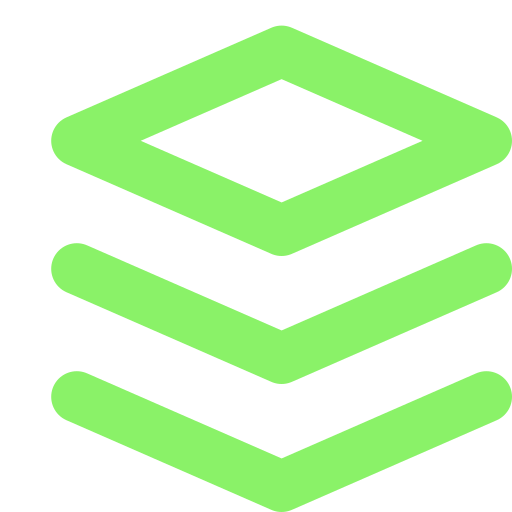
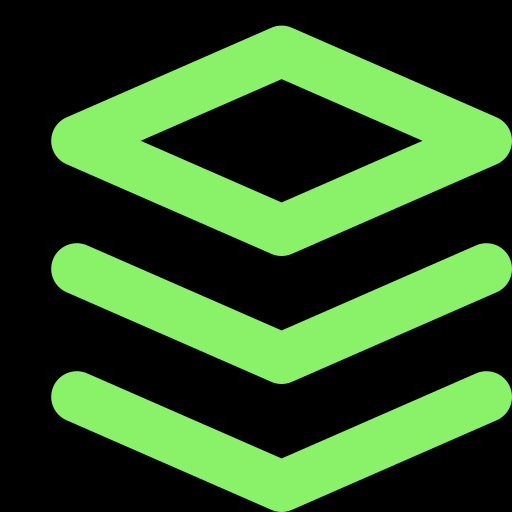
bug fixes
added time bug - midnight study
added custom category

diff --git a/app.js b/app.js
@@ -21,6 +21,139 @@ const CAT_LUCIDE = {
   reading:'book-marked', lecture:'graduation-cap', project:'monitor'
 };
 const CAT_EMOJI = { study:'📚', review:'🔁', practice:'✏️', reading:'📖', lecture:'🎓', project:'💻' };
+
+// Custom categories (user-defined, stored in localStorage per user)
+const BUILT_IN_CATS = ['study','review','practice','reading','lecture','project'];
+let customCategories = []; // [{id, name, color, icon}]
+
+function loadCustomCategories() {
+  if (!currentUser) return;
+  try {
+    const stored = localStorage.getItem(`logthat_custom_cats_${currentUser.id}`);
+    customCategories = stored ? JSON.parse(stored) : [];
+  } catch { customCategories = []; }
+}
+function saveCustomCategories() {
+  if (!currentUser) return;
+  localStorage.setItem(`logthat_custom_cats_${currentUser.id}`, JSON.stringify(customCategories));
+}
+
+// Get color for any category (built-in or custom)
+function getCatColor(cat) {
+  if (CAT_COLORS[cat]) return CAT_COLORS[cat];
+  const custom = customCategories.find(c => c.name === cat);
+  return custom ? custom.color : '#888888';
+}
+
+// Get lucide icon for any category
+function getCatIcon(cat) {
+  if (CAT_LUCIDE[cat]) return CAT_LUCIDE[cat];
+  const custom = customCategories.find(c => c.name === cat);
+  return custom ? (custom.icon || 'tag') : 'tag';
+}
+
+// Build <option> elements for all categories (built-in + custom)
+function buildCatOptions(selectedVal = '', includeNone = false) {
+  const builtIn = [
+    {v:'study',   l:'📚 Study'},
+    {v:'review',  l:'🔁 Review'},
+    {v:'practice',l:'✏️ Practice'},
+    {v:'reading', l:'📖 Reading'},
+    {v:'lecture', l:'🎓 Lecture'},
+    {v:'project', l:'💻 Project'},
+  ];
+  let html = includeNone ? '<option value="">None</option>' : '';
+  html += builtIn.map(o => `<option value="${o.v}"${selectedVal===o.v?' selected':''}>${o.l}</option>`).join('');
+  if (customCategories.length) {
+    html += `<optgroup label="Custom">`;
+    html += customCategories.map(c => `<option value="${c.name}"${selectedVal===c.name?' selected':''}>${c.name}</option>`).join('');
+    html += `</optgroup>`;
+  }
+  html += `<option value="__custom__">＋ Add custom category…</option>`;
+  return html;
+}
+
+// Populate all category selects in the app
+function updateCategoryDropdowns(selectedVals = {}) {
+  const selects = [
+    {id:'l-cat',       none:false, key:'l-cat'},
+    {id:'live-cat',    none:false, key:'live-cat'},
+    {id:'t-cat',       none:false, key:'t-cat'},
+    {id:'e-cat',       none:false, key:'e-cat'},
+    {id:'task-cat-input', none:true, key:'task-cat-input'},
+    {id:'et-cat',      none:true,  key:'et-cat'},
+    {id:'f-cat-full',  none:true,  key:'f-cat-full'},
+  ];
+  selects.forEach(({id, none, key}) => {
+    const el = document.getElementById(id);
+    if (!el) return;
+    const prev = selectedVals[key] !== undefined ? selectedVals[key] : el.value;
+    el.innerHTML = none
+      ? '<option value="">All categories</option>' + buildCatOptions(prev, false)
+      : buildCatOptions(prev, false);
+    // reattach change handler for "Add custom"
+    el.onchange = function() {
+      if (this.value === '__custom__') {
+        this.value = prev || '';
+        showAddCustomCategoryModal(id);
+      }
+    };
+  });
+}
+
+// Show a small prompt to add a custom category
+function showAddCustomCategoryModal(returnSelectId) {
+  openModal('modal-custom-cat');
+  document.getElementById('custom-cat-return-select').value = returnSelectId;
+  document.getElementById('custom-cat-name').value = '';
+  document.getElementById('custom-cat-color').value = '#6ab84f';
+  document.getElementById('custom-cat-icon').value = 'tag';
+}
+
+function addCustomCategory() {
+  const name = document.getElementById('custom-cat-name').value.trim();
+  const color = document.getElementById('custom-cat-color').value;
+  const icon = document.getElementById('custom-cat-icon').value.trim() || 'tag';
+  const returnId = document.getElementById('custom-cat-return-select').value;
+  if (!name) { toast('Enter a category name', true); return; }
+  if (BUILT_IN_CATS.includes(name.toLowerCase())) { toast('That\'s a built-in category', true); return; }
+  if (customCategories.find(c => c.name === name)) { toast('Category already exists', true); return; }
+  customCategories.push({ id: Date.now().toString(), name, color, icon });
+  saveCustomCategories();
+  updateCategoryDropdowns();
+  // Select the new category in the originating select
+  const el = document.getElementById(returnId);
+  if (el) el.value = name;
+  closeModal('modal-custom-cat');
+  toast(`"${name}" category added ✓`);
+}
+
+function deleteCustomCategory(name) {
+  customCategories = customCategories.filter(c => c.name !== name);
+  saveCustomCategories();
+  renderCustomCategoryChips();
+  updateCategoryDropdowns();
+}
+
+function renderCustomCategoryChips() {
+  const el = document.getElementById('custom-cat-chips');
+  if (!el) return;
+  if (!customCategories.length) {
+    el.innerHTML = '<span style="color:var(--text3);font-size:0.82rem">No custom categories yet.</span>';
+    return;
+  }
+  el.innerHTML = customCategories.map(c => `
+    <div class="chip" style="border-color:${c.color}20">
+      <span style="width:8px;height:8px;border-radius:50%;background:${c.color};display:inline-block;margin-right:4px;flex-shrink:0"></span>
+      ${c.name}
+      <button class="chip-del" onclick="deleteCustomCategory('${c.name.replace(/'/g,"\'")}')">✕</button>
+    </div>`).join('');
+}
+
+function showCustomCategoryManager() {
+  renderCustomCategoryChips();
+  openModal('modal-manage-custom-cats');
+}
 const DAY_NAMES   = ['Sun','Mon','Tue','Wed','Thu','Fri','Sat'];
 const MONTH_NAMES = ['January','February','March','April','May','June','July','August','September','October','November','December'];
 
@@ -137,6 +270,8 @@ async function initApp(user) {
   document.getElementById('auth-screen').style.display='none';
   document.getElementById('app').classList.remove('hidden');
   await loadProfile();
+  loadCustomCategories();
+  updateCategoryDropdowns();
   await loadSubjects();
   await loadTaskSubjects();
   await loadSessions();
@@ -367,8 +502,10 @@ async function logSession(overrides={}){
   if(!date){toast('Pick a date',true);return false;}
   if(!subj){toast('Select a subject',true);return false;}
   if(!start||!end){toast('Enter start and end times',true);return false;}
-  const dur=t2m(end)-t2m(start);
-  if(dur<=0){toast('End must be after start',true);return false;}
+  let dur=t2m(end)-t2m(start);
+  // Handle overnight sessions (e.g. 10:00 PM → 12:30 AM crosses midnight)
+  if(dur<=0) dur+=24*60;
+  if(dur<=0||dur>24*60){toast('Session duration must be between 1 min and 24 hours',true);return false;}
   const {data,error}=await sb.from('sessions').insert({user_id:currentUser.id,date,subject:subj,start_time:start,end_time:end,duration:dur,category:cat,notes}).select().single();
   if(error){toast('Error: '+error.message,true);return false;}
   allSessions.unshift(data);
@@ -409,8 +546,10 @@ async function saveEdit(){
   const end=document.getElementById('e-end').value;
   const cat=document.getElementById('e-cat').value;
   const notes=document.getElementById('e-notes').value.trim();
-  const dur=t2m(end)-t2m(start);
-  if(dur<=0){toast('End must be after start',true);return;}
+  let dur=t2m(end)-t2m(start);
+  // Handle overnight sessions
+  if(dur<=0) dur+=24*60;
+  if(dur<=0||dur>24*60){toast('Session duration must be between 1 min and 24 hours',true);return;}
   const {error}=await sb.from('sessions').update({date,subject:subj,start_time:start,end_time:end,category:cat,notes,duration:dur}).eq('id',editingId);
   if(error){toast('Error: '+error.message,true);return;}
   const idx=allSessions.findIndex(s=>s.id===editingId);
@@ -420,12 +559,13 @@ async function saveEdit(){
 
 /* ── Session HTML ────────────────────────────────────── */
 function sessionHTML(s, showDelete=true){
-  const catIcon = CAT_LUCIDE[s.category]||'book-open';
+  const catIcon = getCatIcon(s.category);
+  const catColor = getCatColor(s.category);
   return `<div class="si">
-    <div class="s-dot" style="background:${CAT_COLORS[s.category]}"></div>
+    <div class="s-dot" style="background:${catColor}"></div>
     <div class="s-body">
       <div class="s-sub">
-        <i data-lucide="${catIcon}" style="width:13px;height:13px;vertical-align:-1px;margin-right:4px;color:${CAT_COLORS[s.category]}"></i>
+        <i data-lucide="${catIcon}" style="width:13px;height:13px;vertical-align:-1px;margin-right:4px;color:${catColor}"></i>
         ${s.subject}
       </div>
       <div class="s-meta">${s.date} · ${fmtTime(s.start_time)}–${fmtTime(s.end_time)} · ${s.category}</div>
@@ -497,6 +637,13 @@ function updateSidebar(){
 
 /* ── Sessions tab ────────────────────────────────────── */
 function renderSessions(){
+  // Refresh category filter options to include custom categories
+  const fCatEl=document.getElementById('f-cat');
+  if(fCatEl){
+    const prev=fCatEl.value;
+    fCatEl.innerHTML='<option value="">All categories</option>'+buildCatOptions('',false).replace('<option value="__custom__">＋ Add custom category…</option>','');
+    fCatEl.value=prev;
+  }
   const fc=document.getElementById('f-cat').value;
   const fs=document.getElementById('f-subj').value;
   const fq=document.getElementById('f-search').value.toLowerCase();
@@ -554,9 +701,9 @@ function renderWeekly(){
   document.getElementById('wk-cats').innerHTML=Object.keys(cm).length
     ?Object.entries(cm).sort((a,b)=>b[1]-a[1]).map(([c,m])=>`
       <div class="cat-row"><div class="cat-top">
-        <span class="cat-n"><i data-lucide="${CAT_LUCIDE[c]||'book-open'}" style="width:13px;height:13px;vertical-align:-1px;margin-right:4px;color:${CAT_COLORS[c]}"></i>${c}</span>
+        <span class="cat-n"><i data-lucide="${getCatIcon(c)}" style="width:13px;height:13px;vertical-align:-1px;margin-right:4px;color:${getCatColor(c)}"></i>${c}</span>
         <span class="cat-v">${fmtD(m)}</span></div>
-        <div class="cat-bw"><div class="cat-bf" style="width:${Math.round(m/maxC*100)}%;background:${CAT_COLORS[c]}"></div></div></div>`).join('')
+        <div class="cat-bw"><div class="cat-bf" style="width:${Math.round(m/maxC*100)}%;background:${getCatColor(c)}"></div></div></div>`).join('')
     :'<div class="empty">No data.</div>';
   refreshIcons();
 }
@@ -772,7 +919,8 @@ function renderTasks(){
       const startStr=t.start_datetime?fmtDateTime(t.start_datetime):'';
       const endStr=t.end_datetime?fmtDateTime(t.end_datetime):'';
       const isOverdue=t.end_datetime&&!t.done&&new Date(t.end_datetime)<new Date();
-      const catIcon=t.category?CAT_LUCIDE[t.category]||'book-open':'';
+      const catIcon=t.category?getCatIcon(t.category):'';
+      const catColor=t.category?getCatColor(t.category):'inherit';
       html+=`<div class="task-item ${t.done?'done':''}" data-task-id="${t.id}">
         <div class="task-check ${t.done?'checked':''}" onclick="toggleTask('${t.id}')"></div>
         <div class="task-body">
@@ -780,7 +928,7 @@ function renderTasks(){
           <div class="task-meta">
             <span class="task-badge ${t.type}">${typeLabels[t.type]}</span>
             <span class="task-badge ${t.priority}">${t.priority}</span>
-            ${t.category?`<span class="task-badge cat"><i data-lucide="${catIcon}" style="width:11px;height:11px;vertical-align:-1px;margin-right:3px;color:${CAT_COLORS[t.category]||'inherit'}"></i>${t.category}</span>`:''}
+            ${t.category?`<span class="task-badge cat"><i data-lucide="${catIcon}" style="width:11px;height:11px;vertical-align:-1px;margin-right:3px;color:${catColor}"></i>${t.category}</span>`:''}
             ${t.subject?`<span class="task-subj-badge">${t.subject}</span>`:''}
           </div>
           ${(startStr||endStr)?`<div class="task-time-range ${isOverdue?'overdue':''}">
@@ -989,7 +1137,12 @@ function dismissTimerSave(){
 /* ── Duration preview ────────────────────────────────── */
 function updateDurPreview(){
   const s=document.getElementById('l-start').value,e=document.getElementById('l-end').value,el=document.getElementById('dur-p');
-  if(s&&e){const d=t2m(e)-t2m(s);el.textContent=d>0?`Duration: ${fmtD(d)}`:'End must be after start';el.className='dur-preview'+(d>0?' has':'');}
+  if(s&&e){
+    let d=t2m(e)-t2m(s);
+    if(d<=0) d+=24*60; // overnight crossover
+    el.textContent=d>0?`Duration: ${fmtD(d)} ${t2m(e)<t2m(s)?'(overnight)':''}`.trim():'Invalid times';
+    el.className='dur-preview'+(d>0?' has':'');
+  }
   else{el.textContent='Enter start and end times to preview duration';el.className='dur-preview';}
 }
 

diff --git a/index.html b/index.html
@@ -139,7 +139,8 @@
         <div class="gr3">
           <div class="field"><label>Start</label><input type="time" id="l-start"/></div>
           <div class="field"><label>End</label><input type="time" id="l-end"/></div>
-          <div class="field"><label>Category</label>
+          <div class="field">
+            <label>Category <button class="link-btn" onclick="showCustomCategoryManager()">+ Custom</button></label>
             <select id="l-cat">
               <option value="study">📚 Study</option>
               <option value="review">🔁 Review</option>
@@ -577,5 +578,59 @@
 <script src="supabase-config.js"></script>
 <script src="app.js"></script>
 <script>document.addEventListener('DOMContentLoaded', () => { if(window.lucide) lucide.createIcons(); });</script>
+
+<!-- Add Custom Category Modal -->
+<div class="modal-overlay" id="modal-custom-cat" onclick="closeModal('modal-custom-cat')">
+  <div class="modal" onclick="event.stopPropagation()" style="max-width:360px">
+    <div class="modal-header">
+      <h3><i data-lucide="tag" style="width:16px;height:16px;vertical-align:-2px;margin-right:6px"></i>Add Custom Category</h3>
+      <button onclick="closeModal('modal-custom-cat')"><i data-lucide="x" style="width:18px;height:18px"></i></button>
+    </div>
+    <input type="hidden" id="custom-cat-return-select"/>
+    <div class="field">
+      <label>Category Name</label>
+      <input type="text" id="custom-cat-name" placeholder="e.g. Exam Prep, Lab Work…" maxlength="30"/>
+    </div>
+    <div class="gr2">
+      <div class="field">
+        <label>Color</label>
+        <div class="color-picker-wrap">
+          <input type="color" id="custom-cat-color" value="#6ab84f"/>
+          <div class="color-presets">
+            <button class="color-dot" style="background:#378ADD" onclick="document.getElementById('custom-cat-color').value='#378ADD'"></button>
+            <button class="color-dot" style="background:#D4537E" onclick="document.getElementById('custom-cat-color').value='#D4537E'"></button>
+            <button class="color-dot" style="background:#EF9F27" onclick="document.getElementById('custom-cat-color').value='#EF9F27'"></button>
+            <button class="color-dot" style="background:#7F77DD" onclick="document.getElementById('custom-cat-color').value='#7F77DD'"></button>
+            <button class="color-dot" style="background:#6ab84f" onclick="document.getElementById('custom-cat-color').value='#6ab84f'"></button>
+            <button class="color-dot" style="background:#D85A30" onclick="document.getElementById('custom-cat-color').value='#D85A30'"></button>
+          </div>
+        </div>
+      </div>
+      <div class="field">
+        <label>Icon <span class="opt">(Lucide name)</span></label>
+        <input type="text" id="custom-cat-icon" placeholder="e.g. flask, code, music" value="tag"/>
+      </div>
+    </div>
+    <button class="btn-primary full" style="margin-top:4px" onclick="addCustomCategory()">
+      <i data-lucide="plus" style="width:14px;height:14px"></i> Add Category
+    </button>
+  </div>
+</div>
+
+<!-- Manage Custom Categories Modal -->
+<div class="modal-overlay" id="modal-manage-custom-cats" onclick="closeModal('modal-manage-custom-cats')">
+  <div class="modal" onclick="event.stopPropagation()">
+    <div class="modal-header">
+      <h3><i data-lucide="settings-2" style="width:16px;height:16px;vertical-align:-2px;margin-right:6px"></i>Custom Categories</h3>
+      <button onclick="closeModal('modal-manage-custom-cats')"><i data-lucide="x" style="width:18px;height:18px"></i></button>
+    </div>
+    <p style="font-size:0.82rem;color:var(--text2);margin-bottom:1rem">Your custom categories appear in all dropdowns alongside the built-in ones.</p>
+    <div class="subject-chips" id="custom-cat-chips"></div>
+    <button class="btn-secondary" style="margin-top:1rem;width:100%" onclick="closeModal('modal-manage-custom-cats');showAddCustomCategoryModal('')">
+      <i data-lucide="plus" style="width:14px;height:14px"></i> Add Another
+    </button>
+  </div>
+</div>
+
 </body>
 </html>

diff --git a/style.css b/style.css
@@ -848,3 +848,24 @@ textarea { resize: vertical; min-height: 72px; line-height: 1.5; }
   color: var(--accent); flex-shrink: 0; font-weight: 500;
 }
 .pomo-entry.break .pomo-entry-dur { color: var(--warn); }
+
+/* ═══════════════════════════════════════════════
+   CUSTOM CATEGORY — color picker
+═══════════════════════════════════════════════ */
+.color-picker-wrap {
+  display: flex; align-items: center; gap: 10px;
+}
+.color-picker-wrap input[type="color"] {
+  width: 38px; height: 38px; padding: 2px;
+  border: 1px solid var(--border2); border-radius: var(--radius-sm);
+  background: var(--surface2); cursor: pointer; flex-shrink: 0;
+}
+.color-presets {
+  display: flex; gap: 6px; flex-wrap: wrap;
+}
+.color-dot {
+  width: 20px; height: 20px; border-radius: 50%;
+  border: 2px solid var(--border2); cursor: pointer;
+  padding: 0; transition: transform 0.15s, border-color 0.15s;
+}
+.color-dot:hover { transform: scale(1.15); border-color: var(--text2); }